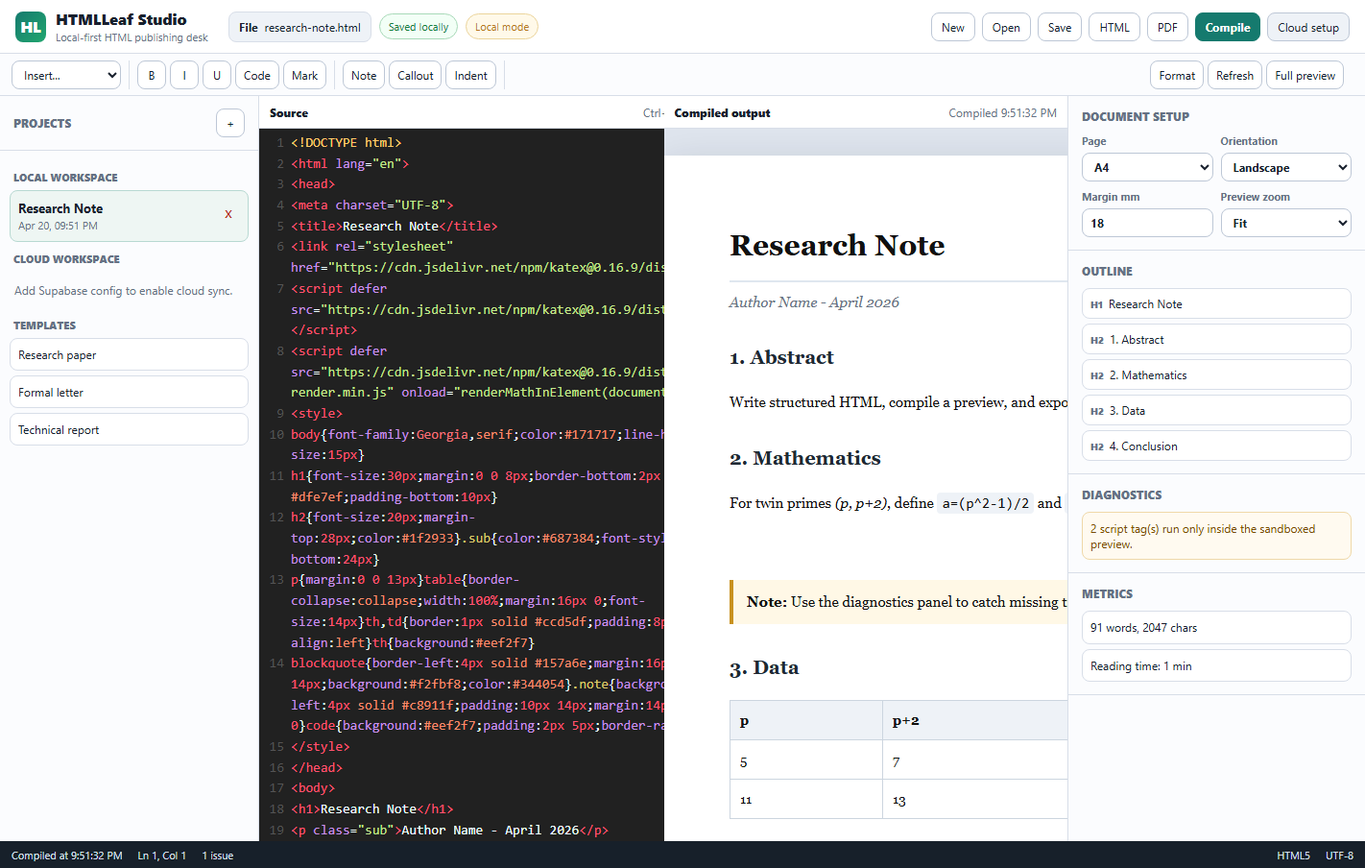
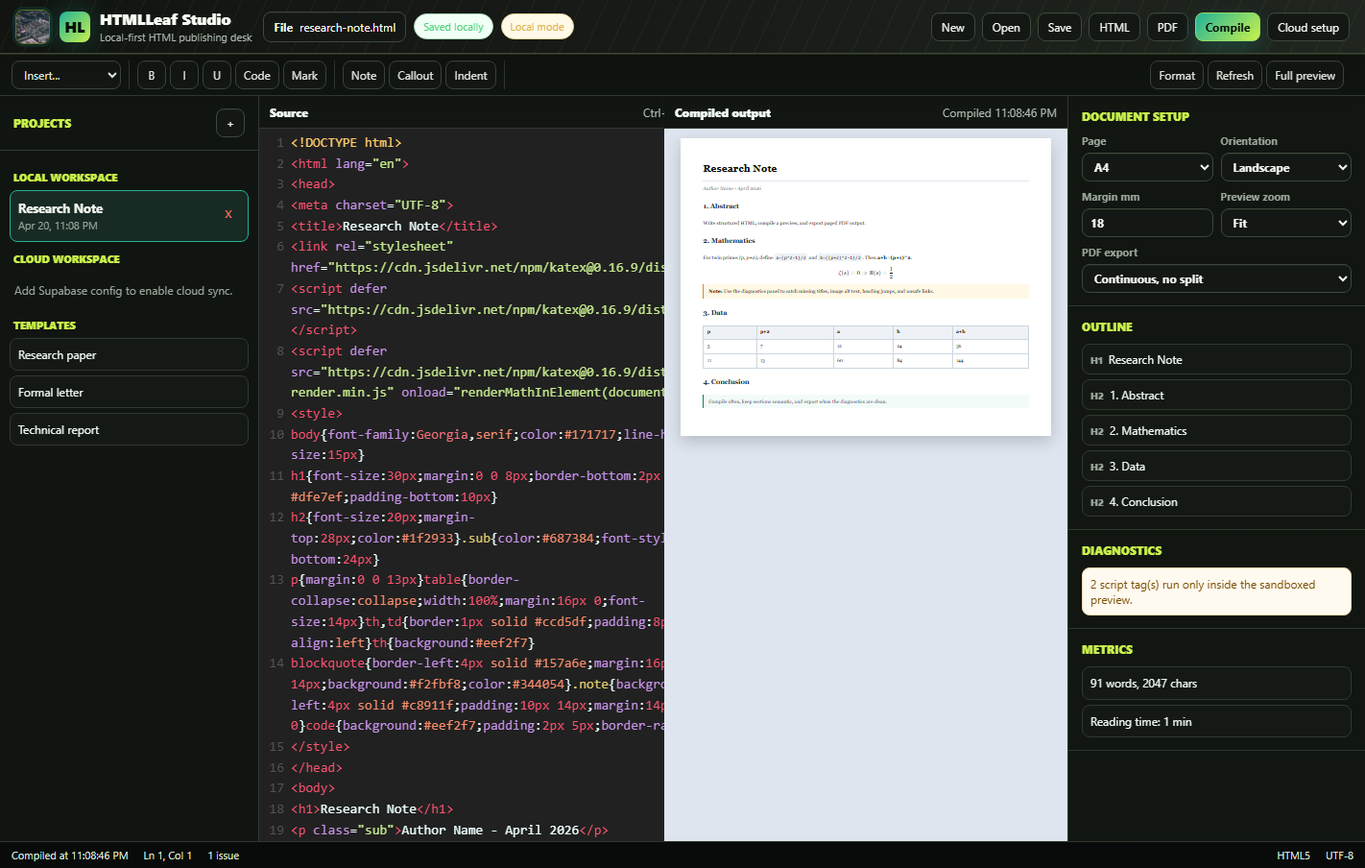
Refine PDF export and studio UI

diff --git a/index.html b/index.html
@@ -40,13 +40,40 @@ button,input,select,textarea{font:inherit}button{cursor:pointer}button:disabled{
 #pdf-render{position:fixed;left:-100000px;top:0;background:#fff;color:#111;z-index:-1;pointer-events:none}.sr-only{position:absolute;width:1px;height:1px;padding:0;margin:-1px;overflow:hidden;clip:rect(0,0,0,0);white-space:nowrap;border:0}
 @media(max-width:1120px){.app-shell{grid-template-columns:230px minmax(0,1fr);grid-template-areas:"top top" "tools tools" "projects workspace" "status status"}.inspector{display:none}}
 @media(max-width:820px){.app-shell{grid-template-columns:1fr;grid-template-rows:auto auto minmax(0,1fr) 28px;grid-template-areas:"top" "tools" "workspace" "status"}.projects{display:none}.topbar{flex-wrap:wrap;height:auto;padding:10px}.brand{min-width:160px}.workspace{grid-template-columns:1fr;grid-template-rows:minmax(260px,1fr) minmax(260px,1fr)}.toolbar{height:auto;min-height:44px}}
+
+/* Studio-grade visual pass */
+:root{--bg:#0f110f;--panel:#171a17;--panel-2:#20251f;--ink:#f2f6ee;--muted:#9aa69b;--line:#30392f;--line-strong:#4d5d4b;--accent:#21b39a;--accent-2:#c9f24b;--warn:#dfb44e;--danger:#ff6b5f;--ok:#50d47c;--editor:#0a0d0c;--shadow:0 22px 60px rgba(0,0,0,.34)}
+html,body{background:#0f110f;color:var(--ink)}
+body::before{content:"";position:fixed;inset:0;pointer-events:none;background:linear-gradient(90deg,rgba(33,179,154,.08) 1px,transparent 1px),linear-gradient(180deg,rgba(201,242,75,.045) 1px,transparent 1px),linear-gradient(135deg,rgba(255,107,95,.06),transparent 38%,rgba(33,179,154,.05));background-size:34px 34px,34px 34px,100% 100%;opacity:.95}
+.app-shell{position:relative;background:rgba(15,17,15,.9)}
+.topbar{position:relative;overflow:hidden;background:linear-gradient(90deg,#111410,#171a17 45%,#20251f);border-bottom-color:#3a4638;box-shadow:0 1px 0 rgba(201,242,75,.14),0 18px 36px rgba(0,0,0,.2)}
+.topbar::after{content:"";position:absolute;inset:0;pointer-events:none;background:repeating-linear-gradient(115deg,transparent 0 21px,rgba(201,242,75,.06) 22px,transparent 23px)}
+.brand,.topbar-center,.topbar-actions{position:relative;z-index:1}
+.brand-signal{width:36px;height:36px;border-radius:8px;object-fit:cover;border:1px solid rgba(201,242,75,.42);box-shadow:0 0 0 3px rgba(33,179,154,.13)}
+.brand-mark{background:linear-gradient(135deg,#21b39a,#c9f24b);color:#09100c;box-shadow:0 0 28px rgba(33,179,154,.32)}
+.brand-title{color:#f9fff6}.brand-sub{color:#adbaae}
+.file-tab,.status-pill,.btn,.btn-subtle,.tool-btn,.icon-btn,.tool-select,.field-input{background:#141814;color:var(--ink);border-color:#3c493b;box-shadow:inset 0 1px 0 rgba(255,255,255,.04)}
+.btn:hover,.btn-subtle:hover,.tool-btn:hover,.icon-btn:hover{background:#20271f;border-color:#6f836a}
+.btn-primary{background:linear-gradient(135deg,#21b39a,#c9f24b);border-color:#91d967;color:#07100c;box-shadow:0 10px 24px rgba(33,179,154,.24)}
+.toolbar,.projects,.inspector,.panel-tab{background:rgba(18,22,18,.94);border-color:#30392f}
+.workspace{background:#30392f;gap:2px}.editor-panel,.preview-panel{background:#111410}
+.panel-tab{color:#aebaae}.tab-strong{color:#f4fff6}
+.CodeMirror{background:#080b0a;color:#e9f4e9}.CodeMirror-gutters{background:#0d100f;border-color:#273228}
+.preview-wrap,#pvdoc{background:#171b18}
+.project-item:hover,.project-item.active{background:#182a24;border-color:#21b39a}.project-item.cloud{background:#171e21}
+.template-item,.outline-item,.diag-item{background:#151915;border-color:#30392f;color:#edf7ee}
+.template-item:hover,.outline-item:hover{border-color:#c9f24b;background:#1c241b}
+.section-label,.panel-title,.block-title{color:#c9f24b;letter-spacing:0}
+.settings-grid .wide{grid-column:1/-1}
+.statusbar{background:#090b0a;color:#dbe8d9;border-top:1px solid #30392f}
+.modal{background:#151915;border-color:#435040;color:var(--ink)}
 </style>
 </head>
 <body>
 <noscript>HTMLLeaf Studio needs JavaScript enabled to edit, compile, and export documents.</noscript>
 <div class="app-shell">
   <header class="topbar">
-    <div class="brand"><div class="brand-mark">HL</div><div><div class="brand-title">HTMLLeaf Studio</div><div class="brand-sub">Local-first HTML publishing desk</div></div></div>
+    <div class="brand"><img class="brand-signal" src="https://images.unsplash.com/photo-1518770660439-4636190af475?auto=format&fit=crop&w=120&q=70" alt=""><div class="brand-mark">HL</div><div><div class="brand-title">HTMLLeaf Studio</div><div class="brand-sub">Local-first HTML publishing desk</div></div></div>
     <div class="topbar-center"><div class="file-tab"><strong>File</strong><span id="tab-fn">untitled.html</span></div><span class="status-pill" id="save-state">Saved locally</span><span class="status-pill warn" id="cloud-state">Cloud not configured</span></div>
     <div class="topbar-actions"><button class="btn" id="btn-new">New</button><button class="btn" id="btn-open">Open</button><input type="file" id="fileinput" class="sr-only" accept=".html,.htm,text/html"><button class="btn" id="btn-save">Save</button><button class="btn" id="btn-dl-html">HTML</button><button class="btn" id="btn-dl-pdf">PDF</button><button class="btn-primary" id="btn-compile">Compile</button><button class="btn-subtle" id="btn-cloud">Cloud</button></div>
   </header>
@@ -62,7 +89,7 @@ button,input,select,textarea{font:inherit}button{cursor:pointer}button:disabled{
     <section class="preview-panel"><div class="panel-tab"><span class="tab-strong">Compiled output</span><span id="cstatus">Not compiled</span></div><div class="preview-wrap" id="pvwrap"><iframe id="pvdoc" title="Compiled document preview" sandbox="allow-scripts allow-popups allow-downloads"></iframe><div class="preview-cover" id="cov"><div class="spinner"></div><div id="cov-lbl">Compiling...</div></div></div></section>
   </main>
   <aside class="inspector">
-    <div class="inspector-block"><div class="block-title">Document setup</div><div class="settings-grid"><label>Page<select class="tool-select" id="pgsz"><option value="a4">A4</option><option value="letter">Letter</option><option value="a3">A3</option></select></label><label>Orientation<select class="tool-select" id="pgori"><option value="portrait">Portrait</option><option value="landscape">Landscape</option></select></label><label>Margin mm<input class="field-input" type="number" id="pgmargin" min="5" max="40" value="18"></label><label>Preview zoom<select class="tool-select" id="pgzoom"><option value="fit">Fit</option><option value="100">100%</option><option value="125">125%</option></select></label></div></div>
+    <div class="inspector-block"><div class="block-title">Document setup</div><div class="settings-grid"><label>Page<select class="tool-select" id="pgsz"><option value="a4">A4</option><option value="letter">Letter</option><option value="a3">A3</option></select></label><label>Orientation<select class="tool-select" id="pgori"><option value="portrait">Portrait</option><option value="landscape">Landscape</option></select></label><label>Margin mm<input class="field-input" type="number" id="pgmargin" min="5" max="40" value="18"></label><label>Preview zoom<select class="tool-select" id="pgzoom"><option value="fit">Fit</option><option value="100">100%</option><option value="125">125%</option></select></label><label class="wide">PDF export<select class="tool-select" id="pgexport"><option value="continuous">Continuous, no split</option><option value="paged">Paged, smart breaks</option></select></label></div></div>
     <div class="inspector-block"><div class="block-title">Outline</div><div class="outline-list" id="outline-list"></div></div>
     <div class="inspector-block"><div class="block-title">Diagnostics</div><div class="diag-list" id="diag-list"></div></div>
     <div class="inspector-block"><div class="block-title">Metrics</div><div class="diag-list"><div class="diag-item" id="wc">0 words, 0 chars</div><div class="diag-item" id="reading-time">Reading time: under 1 min</div></div></div>
@@ -110,7 +137,7 @@ $$ \\zeta(s)=0 \\Rightarrow \\Re(s)=\\frac{1}{2} $$
 </html>`;
 const TEMPLATES=[{id:"paper",name:"Research paper",content:STARTER},{id:"letter",name:"Formal letter",content:`<!DOCTYPE html><html lang="en"><head><meta charset="UTF-8"><title>Formal Letter</title><style>body{font-family:Georgia,serif;line-height:1.7;color:#161616}.date{text-align:right}.sig{margin-top:36px}</style></head><body><p class="date">April 20, 2026</p><p>Dear Reader,</p><p>This is a clean letter template for printable correspondence.</p><p>Sincerely,</p><p class="sig">Your Name</p></body></html>`},{id:"report",name:"Technical report",content:`<!DOCTYPE html><html lang="en"><head><meta charset="UTF-8"><title>Technical Report</title><style>body{font-family:Arial,sans-serif;line-height:1.65;color:#1d2733}h1{border-bottom:3px solid #157a6e;padding-bottom:8px}pre{background:#101418;color:#e6edf3;padding:14px;border-radius:6px;overflow:auto}</style></head><body><h1>Technical Report</h1><h2>Summary</h2><p>State the problem, decision, and outcome.</p><h2>Implementation</h2><pre><code>const result = "documented";</code></pre><h2>Risks</h2><ul><li>List assumptions.</li><li>List mitigations.</li></ul></body></html>`}];
 const SNIPS={h1:"<h1>Heading 1</h1>\n",h2:"<h2>Heading 2</h2>\n",h3:"<h3>Heading 3</h3>\n",p:"<p>Your paragraph.</p>\n",ul:"<ul>\n  <li>Item one</li>\n  <li>Item two</li>\n</ul>\n",ol:"<ol>\n  <li>First item</li>\n  <li>Second item</li>\n</ol>\n",table:"<table>\n  <tr><th>Column A</th><th>Column B</th></tr>\n  <tr><td>Data</td><td>Data</td></tr>\n</table>\n",math:"$$ E = mc^2 $$\n",figure:"<figure>\n  <img src=\"https://placehold.co/760x360?text=Figure\" alt=\"Describe this figure\" style=\"max-width:100%\">\n  <figcaption>Figure 1. Caption.</figcaption>\n</figure>\n",code:"<pre><code>// code\nconsole.log(\"hello\");\n</code></pre>\n",blockquote:"<blockquote>Quote or highlighted passage.</blockquote>\n"};
-const $=id=>document.getElementById(id);let editor,projects=loadJSON(STORAGE_KEY,[]),settings=loadJSON(SETTINGS_KEY,{pageSize:"a4",orientation:"portrait",margin:18,zoom:"fit"}),cloudConfig=loadCloudConfig(),sb=null,currentUser=null,cloudProjects=[],activeProjectId=null,dirty=false,compiled=false,authMode="signin",modalCallback=null,autosaveTimer=null;
+const $=id=>document.getElementById(id);let editor,projects=loadJSON(STORAGE_KEY,[]),settings=loadJSON(SETTINGS_KEY,{pageSize:"a4",orientation:"portrait",margin:18,zoom:"fit",exportMode:"continuous"}),cloudConfig=loadCloudConfig(),sb=null,currentUser=null,cloudProjects=[],activeProjectId=null,dirty=false,compiled=false,authMode="signin",modalCallback=null,autosaveTimer=null;
 function loadJSON(k,f){try{const r=localStorage.getItem(k);return r?JSON.parse(r):f}catch(e){return f}}function saveJSON(k,v){localStorage.setItem(k,JSON.stringify(v))}function loadCloudConfig(){const s=loadJSON(CLOUD_KEY,{}),u=document.querySelector('meta[name="supabase-url"]')?.content.trim(),metaKey=document.querySelector('meta[name="supabase-anon-key"]')?.content.trim();return{url:s.url||u||"",key:s.key||metaKey||""}}function createId(){return window.crypto&&crypto.randomUUID?crypto.randomUUID():"p_"+Date.now().toString(36)+"_"+Math.random().toString(36).slice(2,8)}function nowISO(){return new Date().toISOString()}function formatDate(iso){const d=new Date(iso);return Number.isNaN(d.getTime())?"unknown time":d.toLocaleString(undefined,{month:"short",day:"numeric",hour:"2-digit",minute:"2-digit"})}function escapeHTML(v){const d=document.createElement("div");d.textContent=v==null?"":String(v);return d.innerHTML}
 function getEditorValue(){return editor&&editor.getValue?editor.getValue():$("editor").value}function setEditorValue(v){if(editor&&editor.setValue)editor.setValue(v);else $("editor").value=v}function focusEditor(){if(editor&&editor.focus)editor.focus();else $("editor").focus()}
 function initializeEditor(){if(window.CodeMirror){editor=CodeMirror.fromTextArea($("editor"),{lineNumbers:true,mode:"htmlmixed",theme:"material-darker",lineWrapping:true,indentUnit:2,tabSize:2,extraKeys:{"Ctrl-Enter":compile,"Cmd-Enter":compile,"Ctrl-S":saveNow,"Cmd-S":saveNow}});editor.on("change",onEditorChange);editor.on("cursorActivity",updateCursor)}else{editor={getValue:()=>$("editor").value,setValue:v=>{$("editor").value=v;onEditorChange()},replaceSelection:v=>{const el=$("editor"),s=el.selectionStart,e=el.selectionEnd;el.value=el.value.slice(0,s)+v+el.value.slice(e);el.selectionStart=el.selectionEnd=s+v.length;onEditorChange()},getSelection:()=>$("editor").value.slice($("editor").selectionStart,$("editor").selectionEnd),execCommand:()=>{},focus:()=>$("editor").focus(),getCursor:()=>({line:0,ch:0})};$("editor").addEventListener("input",onEditorChange)}}
@@ -128,13 +155,13 @@ function refreshDocumentIntelligence(){const s=getEditorValue();updateStats(s);r
 function renderOutline(s){const doc=parseHTML(s),heads=Array.from(doc.querySelectorAll("h1,h2,h3,h4,h5,h6"));if(!heads.length){$("outline-list").innerHTML='<div class="empty-state">No headings yet.</div>';return}$("outline-list").innerHTML=heads.map((h,i)=>`<button class="outline-item" data-heading="${i}"><small>${h.tagName}</small>${escapeHTML(h.textContent.trim()||"Untitled heading")}</button>`).join("");$("outline-list").querySelectorAll("[data-heading]").forEach(b=>b.addEventListener("click",()=>{const h=heads[Number(b.getAttribute("data-heading"))],txt=h.textContent.trim(),line=getEditorValue().split(/\r?\n/).findIndex(r=>r.includes(txt));if(line>=0&&editor&&editor.setCursor){editor.setCursor({line,ch:0});focusEditor()}}))}
 function collectDiagnostics(s){const doc=parseHTML(s),d=[],title=doc.querySelector("title");if(!title||!title.textContent.trim())d.push({type:"warn",message:"Document title is missing."});const h1=doc.querySelectorAll("h1");if(!h1.length)d.push({type:"warn",message:"Add one h1 so the document has a clear title."});if(h1.length>1)d.push({type:"warn",message:"Multiple h1 headings found. Use one main title."});const imgs=Array.from(doc.images).filter(img=>!img.getAttribute("alt"));if(imgs.length)d.push({type:"warn",message:imgs.length+" image(s) need alt text."});const ids=Array.from(doc.querySelectorAll("[id]")).map(el=>el.id).filter(Boolean),dups=ids.filter((id,i)=>ids.indexOf(id)!==i);if(dups.length)d.push({type:"danger",message:"Duplicate id values: "+Array.from(new Set(dups)).join(", ")});const unsafe=Array.from(doc.querySelectorAll("[href],[src]")).filter(el=>/^\s*javascript:/i.test(el.getAttribute("href")||el.getAttribute("src")||""));if(unsafe.length)d.push({type:"danger",message:"Unsafe javascript: link or source found."});const scripts=doc.querySelectorAll("script").length;if(scripts)d.push({type:"warn",message:scripts+" script tag(s) run only inside the sandboxed preview."});let last=0;Array.from(doc.querySelectorAll("h1,h2,h3,h4,h5,h6")).forEach(h=>{const lvl=Number(h.tagName.slice(1));if(last&&lvl>last+1)d.push({type:"warn",message:"Heading level jumps from h"+last+" to h"+lvl+"."});last=lvl});if(!d.length)d.push({type:"ok",message:"No structural issues detected."});return d}function renderDiagnostics(s){const d=collectDiagnostics(s);$("diag-list").innerHTML=d.map(x=>`<div class="diag-item ${x.type}">${escapeHTML(x.message)}</div>`).join("");const c=d.filter(x=>x.type!=="ok").length;$("diag-summary").textContent=c+(c===1?" issue":" issues")}
 function pageMetrics(){const b=PAGE_SIZES[settings.pageSize]||PAGE_SIZES.a4,l=settings.orientation==="landscape";return{label:b.label,w:l?b.h:b.w,h:l?b.w:b.h,pdf:b.pdf,orientation:l?"landscape":"portrait",margin:Number(settings.margin)||18}}function pageCss(){const p=pageMetrics(),z=settings.zoom==="fit"?"":"zoom:"+(Number(settings.zoom)/100)+";";return`html{background:#dfe5ee;min-height:100%}body{width:${p.w}mm!important;min-height:${p.h}mm!important;margin:28px auto!important;padding:${p.margin}mm!important;background:#fff!important;color:#111;box-sizing:border-box!important;box-shadow:0 18px 45px rgba(24,32,45,.22);${z}}img,svg,canvas,video{max-width:100%;height:auto}table{max-width:100%}@page{size:${p.w}mm ${p.h}mm;margin:${p.margin}mm}@media print{html{background:#fff}body{box-shadow:none;margin:0!important}}`}
-function buildPreviewDocument(s){const doc=parseHTML(s),head=doc.head?doc.head.innerHTML:"",body=doc.body?doc.body.innerHTML:s;return`<!DOCTYPE html><html lang="en"><head><meta charset="UTF-8"><base target="_blank">${head}<style id="htmlleaf-page-style">${pageCss()}</style></head><body>${body}<script>window.addEventListener("load",function(){try{if(window.renderMathInElement){renderMathInElement(document.body,{delimiters:[{left:"$$",right:"$$",display:true},{left:"\\\\(",right:"\\\\)",display:false},{left:"\\\\[",right:"\\\\]",display:true}],throwOnError:false})}}catch(err){}});<\/script></body></html>`}
+function buildPreviewDocument(s){const doc=parseHTML(s),head=doc.head?doc.head.innerHTML:"",body=doc.body?doc.body.innerHTML:s,zoom=settings.zoom||"fit";return`<!DOCTYPE html><html lang="en"><head><meta charset="UTF-8"><base target="_blank">${head}<style id="htmlleaf-page-style">${pageCss()}</style></head><body>${body}<script>function htmlleafFit(){try{if("${zoom}"!=="fit")return;document.body.style.zoom="";var w=document.body.getBoundingClientRect().width;var scale=Math.min(1,Math.max(.34,(window.innerWidth-34)/Math.max(1,w)));document.body.style.zoom=scale}catch(e){}}window.addEventListener("load",function(){try{if(window.renderMathInElement){renderMathInElement(document.body,{delimiters:[{left:"$$",right:"$$",display:true},{left:"\\\\(",right:"\\\\)",display:false},{left:"\\\\[",right:"\\\\]",display:true}],throwOnError:false})}}catch(err){}htmlleafFit();setTimeout(htmlleafFit,250)});window.addEventListener("resize",htmlleafFit);<\/script></body></html>`}
 function compile(){const s=getEditorValue();$("cov").classList.add("show");$("cov-lbl").textContent="Compiling...";$("cstatus").textContent="Compiling...";setStatus("Compiling preview...");compiled=true;const f=$("pvdoc");let done=false;const finish=()=>{if(done)return;done=true;$("cov").classList.remove("show");const t=new Date().toLocaleTimeString();$("cstatus").textContent="Compiled "+t;setStatus("Compiled at "+t)};f.onload=finish;try{f.srcdoc=buildPreviewDocument(s);setTimeout(finish,1200)}catch(e){$("cov").classList.remove("show");$("cstatus").textContent="Compile failed";setStatus("Compile error: "+e.message)}}
 function sanitizeDocumentForExport(s){const doc=parseHTML(s);doc.querySelectorAll("script,iframe,object,embed,form,input,button,textarea,select").forEach(el=>el.remove());doc.querySelectorAll("*").forEach(el=>Array.from(el.attributes).forEach(a=>{const n=a.name.toLowerCase(),v=a.value||"";if(n.startsWith("on")||/^\s*javascript:/i.test(v))el.removeAttribute(a.name)}));return{styles:Array.from(doc.querySelectorAll('style,link[rel="stylesheet"]')).map(el=>el.outerHTML).join("\n"),body:doc.body?doc.body.innerHTML:s}}function preparePdfSurface(s){const p=pageMetrics(),safe=sanitizeDocumentForExport(s),surf=$("pdf-render");surf.innerHTML="";surf.style.width=p.w+"mm";surf.style.minHeight=p.h+"mm";surf.style.padding=p.margin+"mm";surf.style.boxSizing="border-box";surf.style.background="#fff";surf.innerHTML=safe.styles+'<style id="htmlleaf-export-style">body{margin:0}#pdf-render img,#pdf-render svg,#pdf-render canvas,#pdf-render video{max-width:100%;height:auto}#pdf-render table{max-width:100%}</style>'+safe.body;if(window.renderMathInElement){try{renderMathInElement(surf,{delimiters:[{left:"$$",right:"$$",display:true},{left:"\\(",right:"\\)",display:false},{left:"\\[",right:"\\]",display:true}],throwOnError:false})}catch(e){setStatus("Math render warning: "+e.message)}}return surf}
 function waitForAssets(c){const waits=Array.from(c.querySelectorAll("img")).map(img=>img.complete?Promise.resolve():new Promise(res=>{const t=setTimeout(res,1800);img.onload=img.onerror=()=>{clearTimeout(t);res()}}));if(document.fonts&&document.fonts.ready)waits.push(document.fonts.ready.catch(()=>{}));return Promise.all(waits)}
-async function downloadPDF(){if(!window.html2canvas||!window.jspdf){alert("PDF libraries are unavailable. Check the network connection and reload.");return}if(!compiled)compile();const b=$("btn-dl-pdf");b.disabled=true;$("cov").classList.add("show");$("cov-lbl").textContent="Generating PDF...";setStatus("Generating PDF...");try{const p=pageMetrics(),surf=preparePdfSurface(getEditorValue());await waitForAssets(surf);const canvas=await html2canvas(surf,{scale:2,useCORS:true,allowTaint:false,backgroundColor:"#fff",logging:false}),pdf=new jspdf.jsPDF({orientation:p.orientation,unit:"mm",format:p.pdf}),pdfW=pdf.internal.pageSize.getWidth(),pdfH=pdf.internal.pageSize.getHeight(),contentW=pdfW-p.margin*2,contentH=pdfH-p.margin*2,sliceHeightPx=Math.floor(canvas.width*contentH/contentW);let y=0,pageIndex=0;while(y<canvas.height){const slice=document.createElement("canvas"),sliceH=Math.min(sliceHeightPx,canvas.height-y);slice.width=canvas.width;slice.height=sliceH;const ctx=slice.getContext("2d");ctx.fillStyle="#fff";ctx.fillRect(0,0,slice.width,slice.height);ctx.drawImage(canvas,0,y,canvas.width,sliceH,0,0,slice.width,sliceH);if(pageIndex>0)pdf.addPage();pdf.addImage(slice.toDataURL("image/jpeg",.96),"JPEG",p.margin,p.margin,contentW,sliceH*contentW/canvas.width);y+=sliceHeightPx;pageIndex++}const pr=activeProject(),base=((pr&&pr.fileName)||"document.html").replace(/\.html?$/i,"");pdf.save(base+".pdf");setStatus("PDF exported: "+base+".pdf")}catch(e){alert("PDF export failed: "+e.message);setStatus("PDF export failed")}finally{$("pdf-render").innerHTML="";$("cov").classList.remove("show");b.disabled=false}}
+function pdfBaseName(){const p=activeProject();return((p&&p.fileName)||"document.html").replace(/\.html?$/i,"")}function canvasSlice(canvas,y,h){const slice=document.createElement("canvas");slice.width=canvas.width;slice.height=h;const ctx=slice.getContext("2d");ctx.fillStyle="#fff";ctx.fillRect(0,0,slice.width,slice.height);ctx.drawImage(canvas,0,y,canvas.width,h,0,0,slice.width,h);return slice}function smartBreaks(surface,canvas,targetPx){const scale=canvas.width/Math.max(1,surface.getBoundingClientRect().width),avoid=Array.from(surface.querySelectorAll("pre,code,table,figure,blockquote,img,.note,aside,h1,h2,h3")).map(el=>{const r=el.getBoundingClientRect(),sr=surface.getBoundingClientRect();return{top:Math.max(0,(r.top-sr.top)*scale),bottom:Math.max(0,(r.bottom-sr.top)*scale)}}).filter(r=>r.bottom-r.top>18);const breaks=[];let y=0;while(y+targetPx<canvas.height){let cut=y+targetPx;for(const r of avoid){if(cut>r.top&&cut<r.bottom){if(r.top-y>targetPx*.42)cut=Math.max(y+80,r.top-12);else cut=Math.min(canvas.height,r.bottom+12);break}}if(cut<=y+60)cut=y+targetPx;breaks.push(Math.min(canvas.height,Math.floor(cut)));y=breaks[breaks.length-1]}return breaks}async function exportContinuousPDF(surface,canvas){const pxToMm=25.4/96,pdfW=Math.max(20,surface.scrollWidth*pxToMm),pdfH=Math.max(20,surface.scrollHeight*pxToMm),pdf=new jspdf.jsPDF({orientation:pdfW>pdfH?"landscape":"portrait",unit:"mm",format:[pdfW,pdfH]});pdf.addImage(canvas.toDataURL("image/jpeg",.97),"JPEG",0,0,pdfW,pdfH);pdf.save(pdfBaseName()+".pdf")}async function exportPagedPDF(surface,canvas){const p=pageMetrics(),pdf=new jspdf.jsPDF({orientation:p.orientation,unit:"mm",format:p.pdf}),pdfW=pdf.internal.pageSize.getWidth(),pdfH=pdf.internal.pageSize.getHeight(),contentW=pdfW-p.margin*2,contentH=pdfH-p.margin*2,targetPx=Math.floor(canvas.width*contentH/contentW),breaks=smartBreaks(surface,canvas,targetPx);let y=0,pageIndex=0;for(const br of breaks.concat(canvas.height)){const h=Math.max(1,Math.min(canvas.height-y,br-y));const slice=canvasSlice(canvas,y,h);if(pageIndex>0)pdf.addPage();pdf.addImage(slice.toDataURL("image/jpeg",.96),"JPEG",p.margin,p.margin,contentW,h*contentW/canvas.width);y=br;pageIndex++}pdf.save(pdfBaseName()+".pdf")}async function downloadPDF(){if(!window.html2canvas||!window.jspdf){alert("PDF libraries are unavailable. Check the network connection and reload.");return}if(!compiled)compile();const b=$("btn-dl-pdf");b.disabled=true;$("cov").classList.add("show");$("cov-lbl").textContent=settings.exportMode==="paged"?"Generating paged PDF...":"Generating continuous PDF...";setStatus($("cov-lbl").textContent);try{const surf=preparePdfSurface(getEditorValue());await waitForAssets(surf);const canvas=await html2canvas(surf,{scale:2,useCORS:true,allowTaint:false,backgroundColor:"#fff",logging:false});if((settings.exportMode||"continuous")==="paged")await exportPagedPDF(surf,canvas);else await exportContinuousPDF(surf,canvas);setStatus("PDF exported: "+pdfBaseName()+".pdf")}catch(e){alert("PDF export failed: "+e.message);setStatus("PDF export failed")}finally{$("pdf-render").innerHTML="";$("cov").classList.remove("show");b.disabled=false}}
 function downloadHTML(){const p=activeProject(),fn=(p&&p.fileName)||"document.html",blob=new Blob([getEditorValue()],{type:"text/html;charset=utf-8"}),a=document.createElement("a");a.href=URL.createObjectURL(blob);a.download=fn;document.body.appendChild(a);a.click();a.remove();setTimeout(()=>URL.revokeObjectURL(a.href),1200);setStatus("HTML exported: "+fn)}
-function wrapSelection(o,c){const sel=editor.getSelection?editor.getSelection():"";editor.replaceSelection(o+(sel||"text")+c);focusEditor()}function insertSnippet(s){if(!s)return;editor.replaceSelection(s);focusEditor();refreshDocumentIntelligence()}function formatDocument(){const f=getEditorValue().replace(/>\s+</g,">\n<").replace(/\n{3,}/g,"\n\n").trim()+"\n";setEditorValue(f);setDirty(true);refreshDocumentIntelligence();setStatus("Basic formatting applied")}function saveSettings(){settings.pageSize=$("pgsz").value;settings.orientation=$("pgori").value;settings.margin=Math.min(40,Math.max(5,Number($("pgmargin").value)||18));settings.zoom=$("pgzoom").value;$("pgmargin").value=settings.margin;saveJSON(SETTINGS_KEY,settings);if(compiled)compile()}function applySettingsToControls(){$("pgsz").value=settings.pageSize||"a4";$("pgori").value=settings.orientation||"portrait";$("pgmargin").value=settings.margin||18;$("pgzoom").value=settings.zoom||"fit"}
+function wrapSelection(o,c){const sel=editor.getSelection?editor.getSelection():"";editor.replaceSelection(o+(sel||"text")+c);focusEditor()}function insertSnippet(s){if(!s)return;editor.replaceSelection(s);focusEditor();refreshDocumentIntelligence()}function formatDocument(){const f=getEditorValue().replace(/>\s+</g,">\n<").replace(/\n{3,}/g,"\n\n").trim()+"\n";setEditorValue(f);setDirty(true);refreshDocumentIntelligence();setStatus("Basic formatting applied")}function saveSettings(){settings.pageSize=$("pgsz").value;settings.orientation=$("pgori").value;settings.margin=Math.min(40,Math.max(5,Number($("pgmargin").value)||18));settings.zoom=$("pgzoom").value;settings.exportMode=$("pgexport").value||"continuous";$("pgmargin").value=settings.margin;saveJSON(SETTINGS_KEY,settings);if(compiled)compile()}function applySettingsToControls(){$("pgsz").value=settings.pageSize||"a4";$("pgori").value=settings.orientation||"portrait";$("pgmargin").value=settings.margin||18;$("pgzoom").value=settings.zoom||"fit";$("pgexport").value=settings.exportMode||"continuous"}
 function showNameModal(t,h,ok,cb){modalCallback=cb;$("name-title").textContent=t;$("name-help").textContent=h;$("name-ok").textContent=ok;$("name-input").value="";$("name-modal").classList.add("show");setTimeout(()=>$("name-input").focus(),40)}function closeNameModal(){$("name-modal").classList.remove("show");modalCallback=null}
 function initCloud(){sb=null;if(cloudConfig.url&&cloudConfig.key&&window.supabase){try{sb=window.supabase.createClient(cloudConfig.url,cloudConfig.key);sb.auth.onAuthStateChange((e,s)=>{currentUser=s&&s.user?s.user:null;updateCloudUI();if(currentUser)loadCloudProjects()});sb.auth.getSession().then(({data})=>{currentUser=data&&data.session?data.session.user:null;updateCloudUI();if(currentUser)loadCloudProjects()}).catch(e=>setCloudMessage(e.message,true))}catch(e){sb=null;setCloudMessage("Supabase config failed: "+e.message,true)}}updateCloudUI()}
 function updateCloudUI(){const cs=$("cloud-state");if(!sb){cs.textContent="Local mode";cs.className="status-pill warn";$("btn-cloud").textContent="Cloud setup"}else if(!currentUser){cs.textContent="Cloud ready";cs.className="status-pill";$("btn-cloud").textContent="Sign in"}else{cs.textContent=currentUser.email||"Signed in";cs.className="status-pill ok";$("btn-cloud").textContent="Cloud"}$("cloud-url").value=cloudConfig.url||"";$("cloud-key").value=cloudConfig.key||"";$("cloud-config-form").style.display=sb&&currentUser?"none":"";$("auth-form").style.display=sb&&!currentUser?"":"none";$("auth-submit").style.display=sb&&!currentUser?"":"none";$("auth-signout").style.display=sb&&currentUser?"":"none";renderProjects()}function setCloudMessage(m,err){$("cloud-msg").textContent=m||"";$("cloud-msg").style.color=err?"var(--danger)":"var(--muted)"}function openCloudModal(){setCloudMessage(sb?"Cloud is configured.":"Cloud sync is optional. Local save already works.",false);updateCloudUI();$("cloud-modal").classList.add("show")}function closeCloudModal(){$("cloud-modal").classList.remove("show")}
@@ -142,7 +169,7 @@ async function signInOrUp(){if(!sb)return setCloudMessage("Save Supabase config 
 async function loadCloudProjects(){if(!sb||!currentUser)return;try{const r=await sb.from("projects").select("id,name,updated_at").eq("user_id",currentUser.id).order("updated_at",{ascending:false});if(r.error)throw r.error;cloudProjects=r.data||[];renderProjects()}catch(e){setStatus("Cloud load failed: "+e.message);setCloudMessage("Cloud load failed: "+e.message,true)}}
 async function openCloudProject(id){if(!sb||!currentUser)return;if(dirty)saveNow();$("cov").classList.add("show");$("cov-lbl").textContent="Loading cloud project...";try{const r=await sb.from("projects").select("id,name,content,updated_at").eq("id",id).eq("user_id",currentUser.id).single();if(r.error)throw r.error;const cp=r.data;let local=projects.find(p=>p.cloudId===id);if(!local){local={id:createId(),cloudId:id,name:cp.name||"Cloud Project",fileName:((cp.name||"cloud-project").replace(/[^\w.-]+/g,"-").toLowerCase())+".html",content:cp.content||"",createdAt:nowISO(),updatedAt:cp.updated_at||nowISO()};projects.unshift(local)}else{local.content=cp.content||"";local.updatedAt=cp.updated_at||nowISO()}persistProjects();openLocalProject(local.id);setCloudMessage("Cloud project opened.",false)}catch(e){setCloudMessage("Open failed: "+e.message,true)}finally{$("cov").classList.remove("show")}}
 async function syncActiveToCloud(showFeedback=true){if(!sb||!currentUser)return;const p=activeProject();if(!p)return;try{let r;if(p.cloudId)r=await sb.from("projects").update({name:p.name,content:p.content,updated_at:nowISO()}).eq("id",p.cloudId).eq("user_id",currentUser.id).select().single();else r=await sb.from("projects").insert({name:p.name,content:p.content,user_id:currentUser.id}).select().single();if(r.error)throw r.error;if(r.data&&r.data.id)p.cloudId=r.data.id;persistProjects();await loadCloudProjects();if(showFeedback)setCloudMessage("Project synced to cloud.",false)}catch(e){setStatus("Cloud sync failed: "+e.message);if(showFeedback)setCloudMessage("Cloud sync failed: "+e.message,true)}}async function deleteCloudProject(id){if(!sb||!currentUser||!confirm("Delete this cloud project? Local mirrors will remain."))return;try{const r=await sb.from("projects").delete().eq("id",id).eq("user_id",currentUser.id);if(r.error)throw r.error;projects.forEach(p=>{if(p.cloudId===id)p.cloudId=null});persistProjects();await loadCloudProjects()}catch(e){setCloudMessage("Cloud delete failed: "+e.message,true)}}
-function wireEvents(){$("btn-new").onclick=()=>showNameModal("New project","Create a blank local document.","Create",n=>createProject(n,STARTER));$("btn-new-small").onclick=$("btn-new").onclick;$("btn-save").onclick=saveNow;$("btn-open").onclick=()=>$("fileinput").click();$("btn-dl-html").onclick=downloadHTML;$("btn-dl-pdf").onclick=downloadPDF;$("btn-compile").onclick=compile;$("btn-recompile").onclick=compile;$("btn-cloud").onclick=openCloudModal;$("btn-fs").onclick=()=>{const w=$("pvwrap"),fn=w.requestFullscreen||w.webkitRequestFullscreen;if(fn)fn.call(w)};$("fileinput").addEventListener("change",e=>{const file=e.target.files[0];if(!file)return;const r=new FileReader();r.onload=ev=>{createProject(file.name.replace(/\.html?$/i,"")||"Imported",ev.target.result);const p=activeProject();if(p)p.fileName=file.name;persistProjects()};r.readAsText(file);e.target.value=""});$("ins-tag").onchange=function(){insertSnippet(SNIPS[this.value]);this.value=""};$("tb-b").onclick=()=>wrapSelection("<strong>","</strong>");$("tb-i").onclick=()=>wrapSelection("<em>","</em>");$("tb-u").onclick=()=>wrapSelection("<u>","</u>");$("tb-code").onclick=()=>wrapSelection("<code>","</code>");$("tb-mark").onclick=()=>wrapSelection("<mark>","</mark>");$("tb-note").onclick=()=>insertSnippet('<div class="note"><strong>Note:</strong> Add detail here.</div>\n');$("tb-callout").onclick=()=>insertSnippet('<aside style="border:1px solid #ccd5df;padding:12px;border-radius:6px;background:#f7fbff"><strong>Callout:</strong> Key idea.</aside>\n');$("btn-indent").onclick=()=>editor.execCommand&&editor.execCommand("indentMore");$("btn-format").onclick=formatDocument;["pgsz","pgori","pgmargin","pgzoom"].forEach(id=>$(id).addEventListener("change",saveSettings));$("name-ok").onclick=()=>{const n=$("name-input").value.trim();if(!n)return;const cb=modalCallback;closeNameModal();if(cb)cb(n)};$("name-cancel").onclick=closeNameModal;$("name-input").addEventListener("keydown",e=>{if(e.key==="Enter")$("name-ok").click();if(e.key==="Escape")closeNameModal()});$("name-modal").addEventListener("click",e=>{if(e.target===$("name-modal"))closeNameModal()});$("cloud-close").onclick=closeCloudModal;$("cloud-modal").addEventListener("click",e=>{if(e.target===$("cloud-modal"))closeCloudModal()});$("cloud-save").onclick=()=>{cloudConfig={url:$("cloud-url").value.trim(),key:$("cloud-key").value.trim()};saveJSON(CLOUD_KEY,cloudConfig);setCloudMessage("Cloud config saved locally in this browser.",false);initCloud()};$("cloud-clear").onclick=()=>{localStorage.removeItem(CLOUD_KEY);cloudConfig={url:"",key:""};currentUser=null;cloudProjects=[];initCloud();setCloudMessage("Cloud config cleared. Local projects are unchanged.",false)};$("auth-submit").onclick=signInOrUp;$("auth-signout").onclick=async()=>{if(sb)await sb.auth.signOut();currentUser=null;cloudProjects=[];updateCloudUI();setCloudMessage("Signed out.",false)};$("btn-google-auth").onclick=async()=>{if(!sb)return setCloudMessage("Save Supabase config first.",true);const r=await sb.auth.signInWithOAuth({provider:"google",options:{redirectTo:window.location.href}});if(r.error)setCloudMessage(r.error.message,true)};$("tab-signin").onclick=()=>{authMode="signin";$("tab-signin").classList.add("active");$("tab-signup").classList.remove("active");$("auth-submit").textContent="Sign in"};$("tab-signup").onclick=()=>{authMode="signup";$("tab-signup").classList.add("active");$("tab-signin").classList.remove("active");$("auth-submit").textContent="Sign up"};document.addEventListener("keydown",e=>{if(e.key==="Escape"){closeNameModal();closeCloudModal()}})}
+function wireEvents(){$("btn-new").onclick=()=>showNameModal("New project","Create a blank local document.","Create",n=>createProject(n,STARTER));$("btn-new-small").onclick=$("btn-new").onclick;$("btn-save").onclick=saveNow;$("btn-open").onclick=()=>$("fileinput").click();$("btn-dl-html").onclick=downloadHTML;$("btn-dl-pdf").onclick=downloadPDF;$("btn-compile").onclick=compile;$("btn-recompile").onclick=compile;$("btn-cloud").onclick=openCloudModal;$("btn-fs").onclick=()=>{const w=$("pvwrap"),fn=w.requestFullscreen||w.webkitRequestFullscreen;if(fn)fn.call(w)};$("fileinput").addEventListener("change",e=>{const file=e.target.files[0];if(!file)return;const r=new FileReader();r.onload=ev=>{createProject(file.name.replace(/\.html?$/i,"")||"Imported",ev.target.result);const p=activeProject();if(p)p.fileName=file.name;persistProjects()};r.readAsText(file);e.target.value=""});$("ins-tag").onchange=function(){insertSnippet(SNIPS[this.value]);this.value=""};$("tb-b").onclick=()=>wrapSelection("<strong>","</strong>");$("tb-i").onclick=()=>wrapSelection("<em>","</em>");$("tb-u").onclick=()=>wrapSelection("<u>","</u>");$("tb-code").onclick=()=>wrapSelection("<code>","</code>");$("tb-mark").onclick=()=>wrapSelection("<mark>","</mark>");$("tb-note").onclick=()=>insertSnippet('<div class="note"><strong>Note:</strong> Add detail here.</div>\n');$("tb-callout").onclick=()=>insertSnippet('<aside style="border:1px solid #ccd5df;padding:12px;border-radius:6px;background:#f7fbff"><strong>Callout:</strong> Key idea.</aside>\n');$("btn-indent").onclick=()=>editor.execCommand&&editor.execCommand("indentMore");$("btn-format").onclick=formatDocument;["pgsz","pgori","pgmargin","pgzoom","pgexport"].forEach(id=>$(id).addEventListener("change",saveSettings));$("name-ok").onclick=()=>{const n=$("name-input").value.trim();if(!n)return;const cb=modalCallback;closeNameModal();if(cb)cb(n)};$("name-cancel").onclick=closeNameModal;$("name-input").addEventListener("keydown",e=>{if(e.key==="Enter")$("name-ok").click();if(e.key==="Escape")closeNameModal()});$("name-modal").addEventListener("click",e=>{if(e.target===$("name-modal"))closeNameModal()});$("cloud-close").onclick=closeCloudModal;$("cloud-modal").addEventListener("click",e=>{if(e.target===$("cloud-modal"))closeCloudModal()});$("cloud-save").onclick=()=>{cloudConfig={url:$("cloud-url").value.trim(),key:$("cloud-key").value.trim()};saveJSON(CLOUD_KEY,cloudConfig);setCloudMessage("Cloud config saved locally in this browser.",false);initCloud()};$("cloud-clear").onclick=()=>{localStorage.removeItem(CLOUD_KEY);cloudConfig={url:"",key:""};currentUser=null;cloudProjects=[];initCloud();setCloudMessage("Cloud config cleared. Local projects are unchanged.",false)};$("auth-submit").onclick=signInOrUp;$("auth-signout").onclick=async()=>{if(sb)await sb.auth.signOut();currentUser=null;cloudProjects=[];updateCloudUI();setCloudMessage("Signed out.",false)};$("btn-google-auth").onclick=async()=>{if(!sb)return setCloudMessage("Save Supabase config first.",true);const r=await sb.auth.signInWithOAuth({provider:"google",options:{redirectTo:window.location.href}});if(r.error)setCloudMessage(r.error.message,true)};$("tab-signin").onclick=()=>{authMode="signin";$("tab-signin").classList.add("active");$("tab-signup").classList.remove("active");$("auth-submit").textContent="Sign in"};$("tab-signup").onclick=()=>{authMode="signup";$("tab-signup").classList.add("active");$("tab-signin").classList.remove("active");$("auth-submit").textContent="Sign up"};document.addEventListener("keydown",e=>{if(e.key==="Escape"){closeNameModal();closeCloudModal()}})}
 function boot(){initializeEditor();applySettingsToControls();renderTemplates();wireEvents();ensureStarterProject();initCloud();refreshDocumentIntelligence();compile();if(!window.CodeMirror)setStatus("Editor fallback active: CodeMirror did not load.")}
 boot();
 </script>

diff --git a/smoke-test.js b/smoke-test.js
@@ -122,9 +122,14 @@ async function main() {
     diag: document.getElementById('diag-summary')?.textContent || '',
     saveState: document.getElementById('save-state')?.textContent || '',
     cloudState: document.getElementById('cloud-state')?.textContent || '',
+    exportMode: document.getElementById('pgexport')?.value || '',
+    continuousExport: typeof exportContinuousPDF === 'function',
+    pagedExport: typeof exportPagedPDF === 'function',
+    smartBreaks: typeof smartBreaks === 'function',
     sandbox: document.getElementById('pvdoc')?.getAttribute('sandbox') || '',
     sameOrigin: (document.getElementById('pvdoc')?.getAttribute('sandbox') || '').includes('allow-same-origin'),
     hasSrcdoc: !!document.getElementById('pvdoc')?.srcdoc,
+    fitPreviewScript: (document.getElementById('pvdoc')?.srcdoc || '').includes('htmlleafFit'),
     localStorageBytes: (localStorage.getItem('htmlleaf.projects.v3') || '').length
   }))()`);
 
@@ -142,9 +147,13 @@ async function main() {
   if (!state.katex) failures.push("KaTeX missing");
   if (state.localProjects < 1) failures.push("local starter project missing");
   if (state.templates < 3) failures.push("templates missing");
+  if (state.exportMode !== "continuous") failures.push("continuous PDF export is not the default");
+  if (!state.continuousExport) failures.push("continuous PDF export function missing");
+  if (!state.pagedExport || !state.smartBreaks) failures.push("smart paged PDF export functions missing");
   if (!state.cstatus.includes("Compiled")) failures.push("compile status did not update");
   if (state.sameOrigin) failures.push("iframe sandbox still allows same-origin");
   if (!state.hasSrcdoc) failures.push("preview srcdoc missing");
+  if (!state.fitPreviewScript) failures.push("fit-preview script missing");
   if (state.localStorageBytes < 100) failures.push("local project storage missing");
   if (!pageSettingWorked) failures.push("page orientation/size did not affect preview");
   if (exceptions.length) failures.push("runtime exceptions: " + exceptions.join(" | "));

diff --git a/summar.md b/summar.md
@@ -71,3 +71,15 @@ Latest result: passed.
 - Preview sandbox: `allow-scripts allow-popups allow-downloads`
 - Page setting check: passed
 - Screenshot: `smoke-test.png`
+
+## Follow-Up Refinement
+
+After testing the live editor, the PDF export and preview were refined again:
+
+- Restored original-style PDF export as the default behavior: `Continuous, no split`.
+- Kept paged PDF export as an optional advanced mode.
+- Added smart page-break avoidance for paged export so code blocks, tables, figures, blockquotes, notes, images, and headings are less likely to be sliced.
+- Added a `PDF export` selector in Document Setup.
+- Added a fit-to-preview pass inside the sandboxed compiled document so wide pages do not look broken or clipped after Compile.
+- Upgraded the visual design with a darker studio shell, signal-grid texture, stronger neon-accent controls, richer panel styling, and a small visual brand image.
+- Updated `smoke-test.js` to verify continuous PDF export is the default, smart paged export functions exist, and the preview fit script is present.
